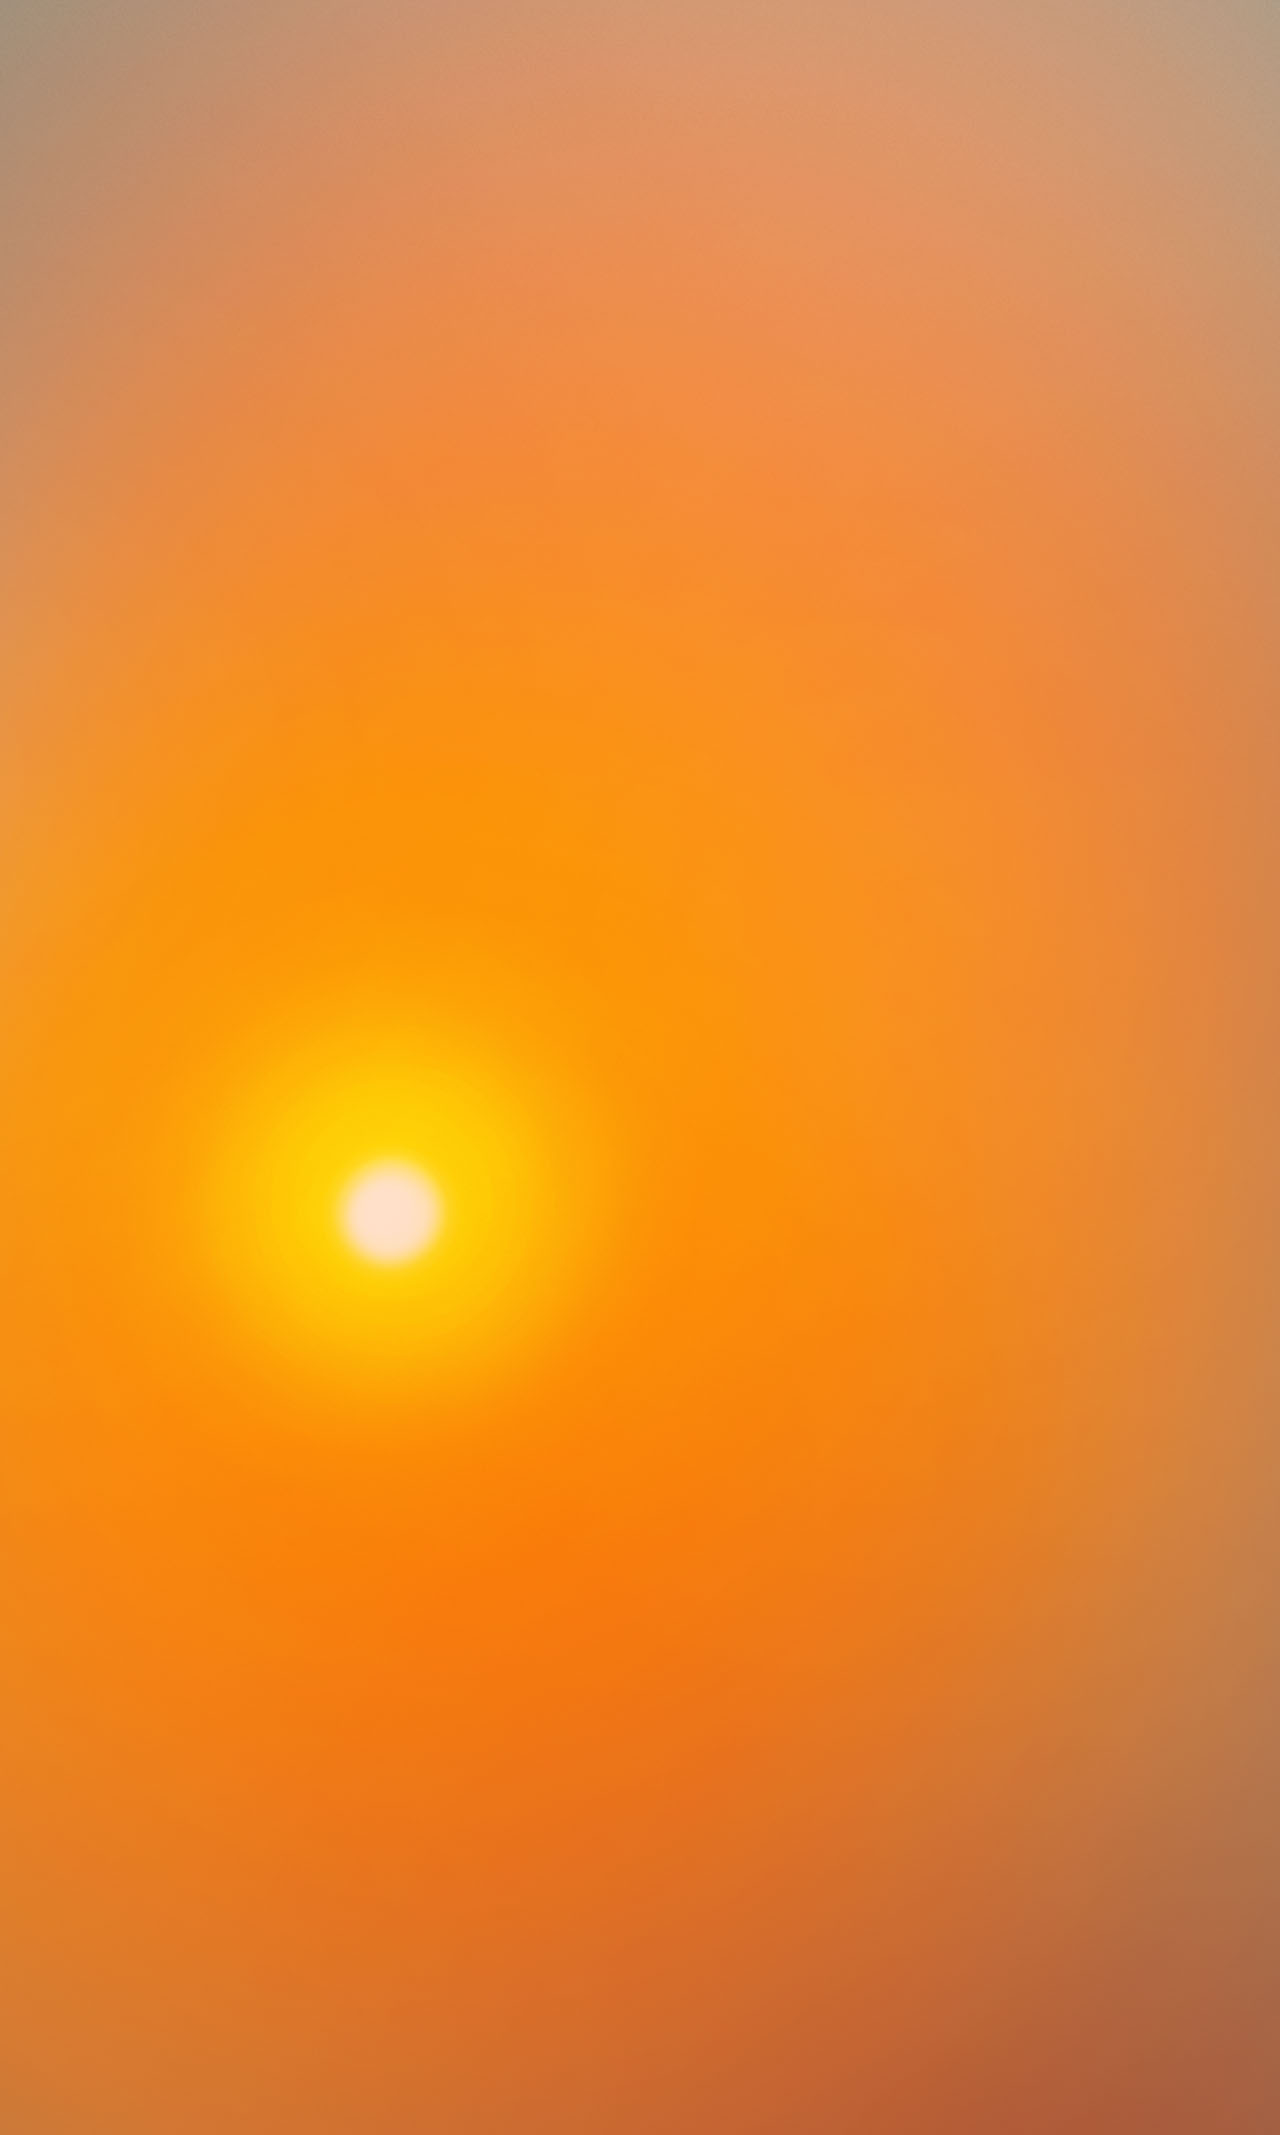
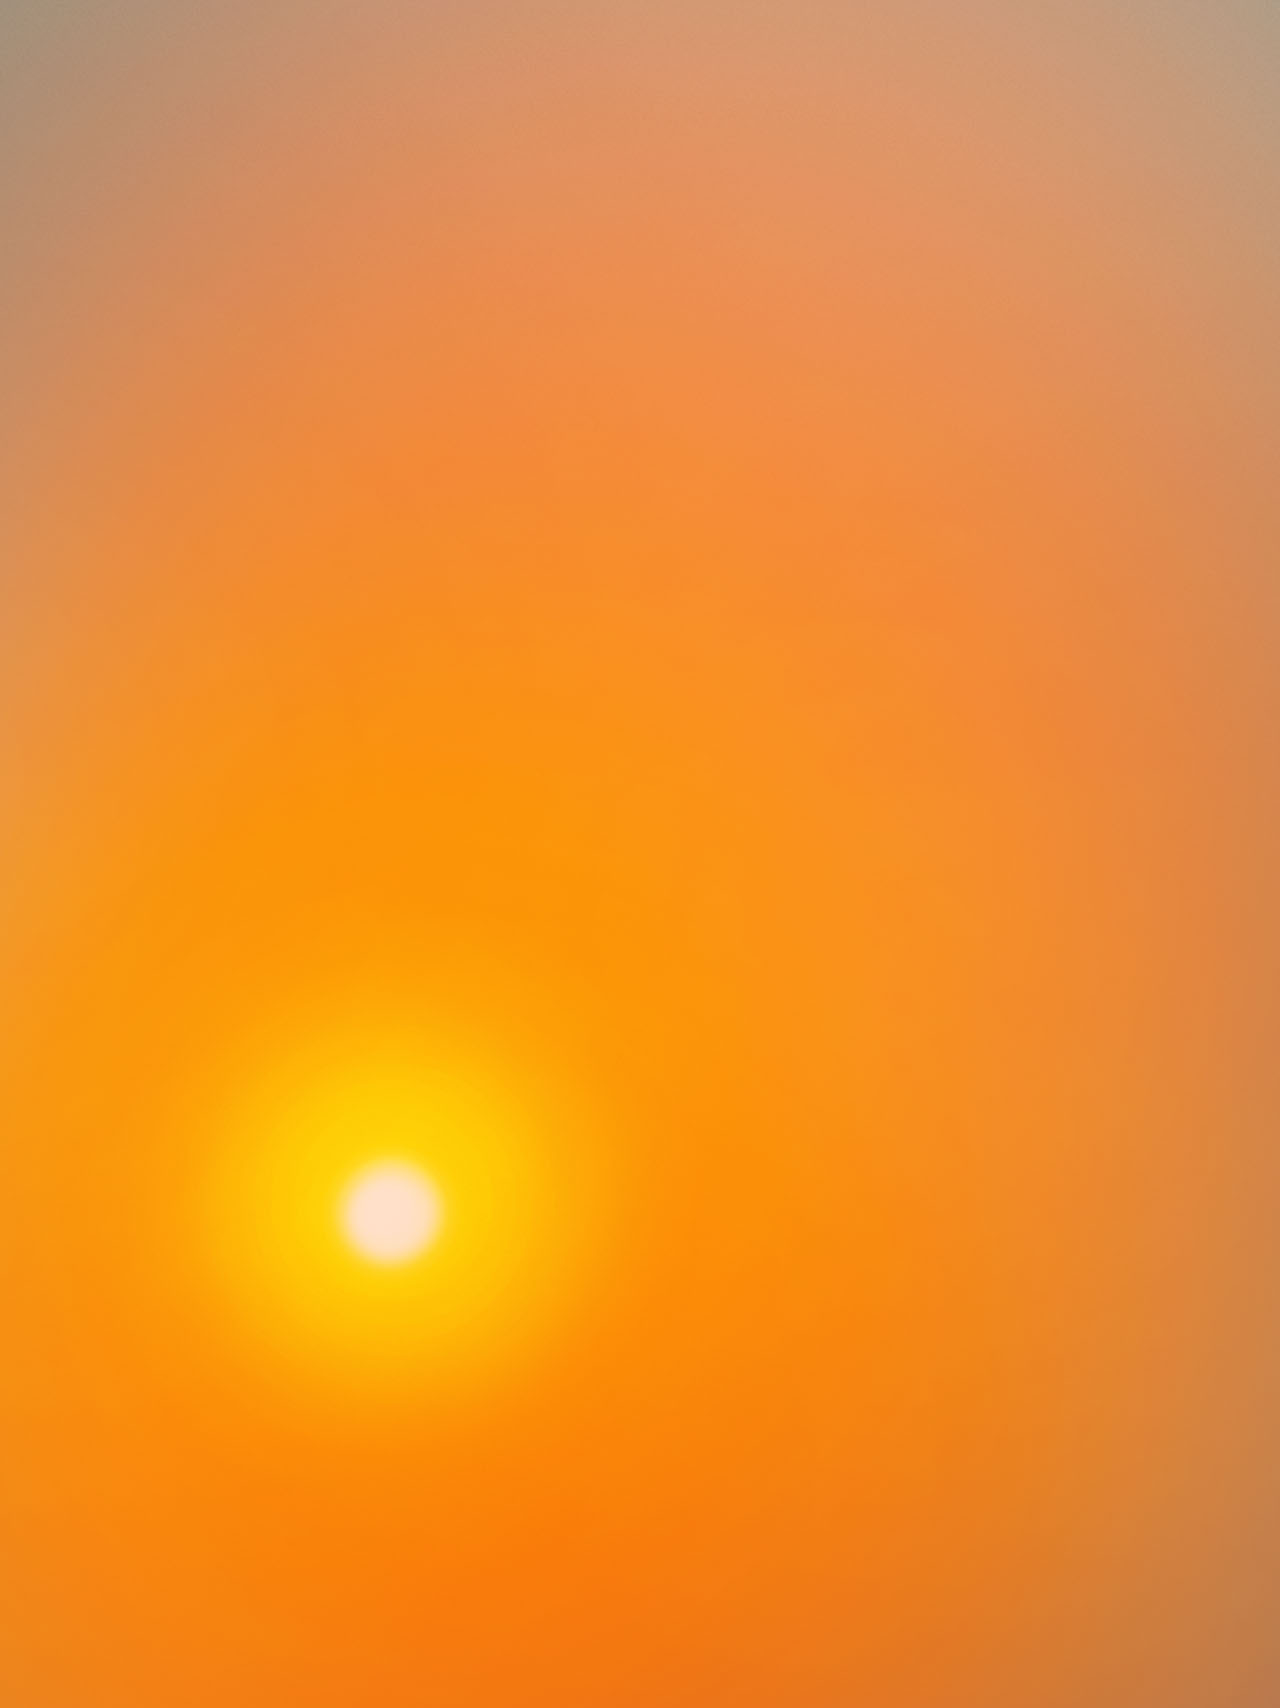
Cambio el background, se achico porque no andaba en el celular.
ParallaxRender: Se acomodo para que funcione con el nuevo background.

Changed region(s): [[0.0, 0.7758, 1.0, 1.0], [0.125, 0.4655, 0.5, 0.8689], [0.0, 0.3724, 0.2188, 0.5275]]

diff --git a/CrystalClash/CrystalClash/src/com/crystalclash/renders/ParallaxRender.java b/CrystalClash/CrystalClash/src/com/crystalclash/renders/ParallaxRender.java
@@ -30,7 +30,7 @@ public class ParallaxRender extends Group {
 		rand = new Random();
 		levels = new Array<ParallaxLevel>();
 		setBounds(0, -854, 1280, 1708);
-		addLevel(new BackgroundParallaxLevel(ResourceHelper.getTexture("menu/background"), -427, 0.01f, 0.01f));
+		addLevel(new BackgroundParallaxLevel(ResourceHelper.getTexture("menu/background"), 0, 0, 0.01f));
 		setColor(getColor().r, getColor().g, getColor().b, 0);
 	}
 
